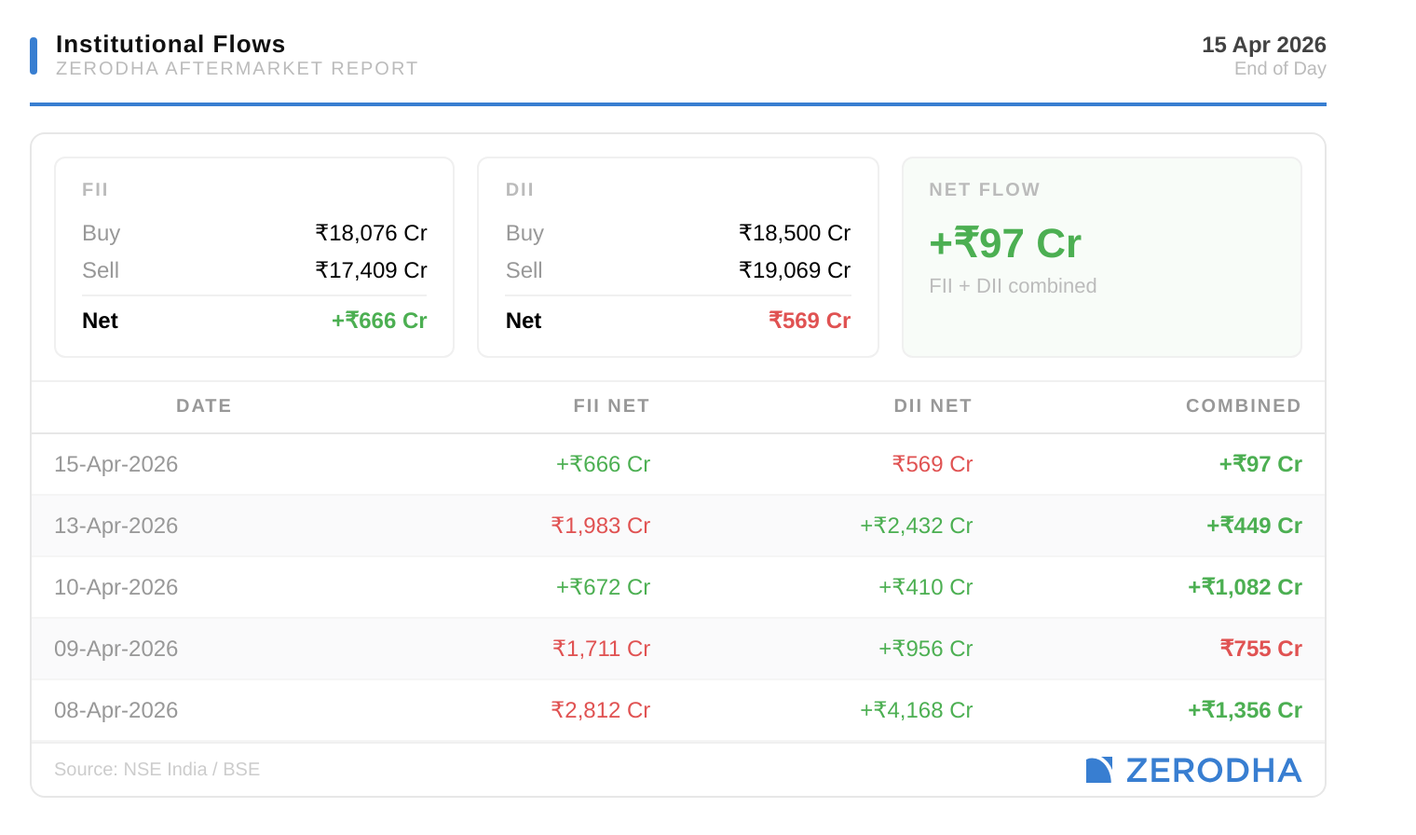
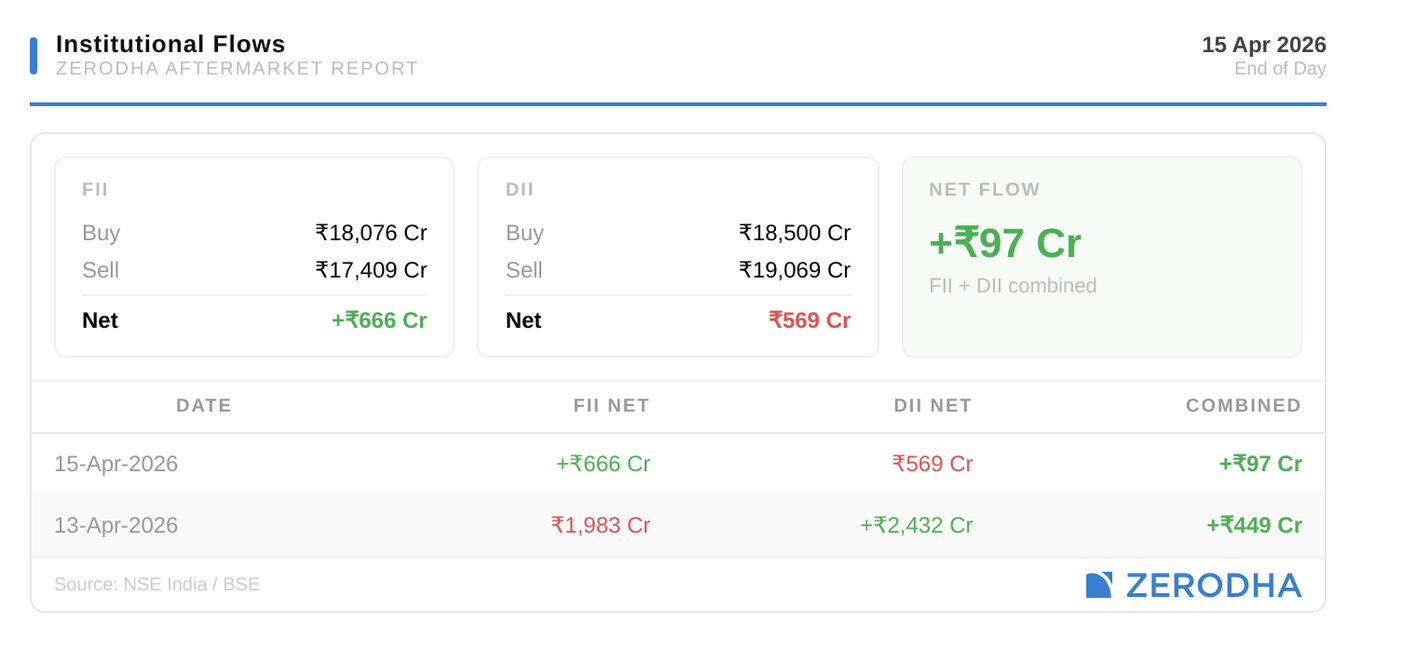
Newsletter: 2026-04-15

diff --git a/index.html b/index.html
@@ -129,7 +129,7 @@
     </div>
 
     <!-- Headline -->
-    <h1 class="nl-headline">Breadth explosion masks thin data — FIIs return as DIIs step back</h1>
+    <h1 class="nl-headline">FIIs return as net buyers; breadth stays commanding with 9:1 advance-decline ratio</h1>
 
     <div class="nl-divider"></div>
 
@@ -137,7 +137,7 @@
     
   <div class="nl-section">
     <h2 class="nl-section-title">Market Overview</h2>
-    <div class="nl-body"><p>Advance-decline ratio hit a stunning 9.4:1 with 7,782 stocks advancing against just 827 declining. The rare breadth surge suggests conviction across the board, though headline index data is unavailable today. FIIs flipped to net buyers with ₹666.15 Cr inflows after two consecutive days of selling, signaling renewed appetite for Indian equities.</p></div>
+    <div class="nl-body"><p>FIIs flipped to net buyers today with ₹666.15 Cr inflow, a sharp reversal from Monday's ₹1,983.18 Cr outflow. Domestic investors stepped back, posting a net sell of ₹568.98 Cr. The breadth story remains stellar: 7,782 advances against just 827 declines, signaling broad market participation even as index-level data remains unavailable.</p></div>
     <div style="border:1px solid #E7E7E7;border-radius:8px;overflow:hidden;">
     <table style="width:100%;border-collapse:collapse;">
       <thead><tr>
@@ -191,7 +191,7 @@
     
   <div class="nl-section">
     <h2 class="nl-section-title">Broader Market</h2>
-    <div class="nl-body"><p>This is the kind of day that matters for retail investors — when the entire market rises together, not just the top 50. The sheer volume of advances (7,782 stocks) tells you the rally wasn't concentrated in a handful of mega-caps. DIIs turned modest sellers at ₹568.98 Cr net outflow, likely book-taking after recent support.</p></div>
+    <div class="nl-body"><p>The 9:1 advance-decline ratio underscores resilience across the board. With nearly 8,642 stocks in play and momentum decisively to the upside, the market is showing the kind of internal strength that matters more than any single index print. DIIs pulling back after two days of heavy buying suggests they may be taking profit, leaving FII demand to anchor the session.</p></div>
     <div style="border:1px solid #E7E7E7;border-radius:8px;overflow:hidden;">
     <table style="width:100%;border-collapse:collapse;">
       <thead><tr>
@@ -332,21 +332,21 @@
       </tr>
         <tr style="background:#FFFFFF;">
           <td style="padding:9px 10px;font-size:12px;color:#111;font-weight:600;">🇺🇸&nbsp; S&P 500</td>
-          <td style="padding:9px 10px;font-size:12px;color:#111;font-weight:700;text-align:right;font-variant-numeric:tabular-nums;">—</td>
-          <td style="padding:9px 10px;font-size:12px;color:#666;text-align:right;font-variant-numeric:tabular-nums;">—</td>
-          <td style="padding:9px 10px;font-size:12px;color:#666;font-weight:700;text-align:right;font-variant-numeric:tabular-nums;">—</td>
+          <td style="padding:9px 10px;font-size:12px;color:#111;font-weight:700;text-align:right;font-variant-numeric:tabular-nums;">6,996.00</td>
+          <td style="padding:9px 10px;font-size:12px;color:#1B8A5A;text-align:right;font-variant-numeric:tabular-nums;">+28.62</td>
+          <td style="padding:9px 10px;font-size:12px;color:#1B8A5A;font-weight:700;text-align:right;font-variant-numeric:tabular-nums;">+0.41%</td>
         </tr>
         <tr style="background:#FAFAFA;">
-          <td style="padding:9px 10px;font-size:12px;color:#111;font-weight:600;">🇺🇸&nbsp; Nasdaq</td>
-          <td style="padding:9px 10px;font-size:12px;color:#111;font-weight:700;text-align:right;font-variant-numeric:tabular-nums;">—</td>
-          <td style="padding:9px 10px;font-size:12px;color:#666;text-align:right;font-variant-numeric:tabular-nums;">—</td>
-          <td style="padding:9px 10px;font-size:12px;color:#666;font-weight:700;text-align:right;font-variant-numeric:tabular-nums;">—</td>
+          <td style="padding:9px 10px;font-size:12px;color:#111;font-weight:600;">🇺🇸&nbsp; Nasdaq 100</td>
+          <td style="padding:9px 10px;font-size:12px;color:#111;font-weight:700;text-align:right;font-variant-numeric:tabular-nums;">23,853.27</td>
+          <td style="padding:9px 10px;font-size:12px;color:#1B8A5A;text-align:right;font-variant-numeric:tabular-nums;">+214.19</td>
+          <td style="padding:9px 10px;font-size:12px;color:#1B8A5A;font-weight:700;text-align:right;font-variant-numeric:tabular-nums;">+0.91%</td>
         </tr>
         <tr style="background:#FFFFFF;">
           <td style="padding:9px 10px;font-size:12px;color:#111;font-weight:600;">🇺🇸&nbsp; Dow Jones</td>
-          <td style="padding:9px 10px;font-size:12px;color:#111;font-weight:700;text-align:right;font-variant-numeric:tabular-nums;">—</td>
-          <td style="padding:9px 10px;font-size:12px;color:#666;text-align:right;font-variant-numeric:tabular-nums;">—</td>
-          <td style="padding:9px 10px;font-size:12px;color:#666;font-weight:700;text-align:right;font-variant-numeric:tabular-nums;">—</td>
+          <td style="padding:9px 10px;font-size:12px;color:#111;font-weight:700;text-align:right;font-variant-numeric:tabular-nums;">48,371.40</td>
+          <td style="padding:9px 10px;font-size:12px;color:#E05252;text-align:right;font-variant-numeric:tabular-nums;">-164.59</td>
+          <td style="padding:9px 10px;font-size:12px;color:#E05252;font-weight:700;text-align:right;font-variant-numeric:tabular-nums;">-0.34%</td>
         </tr>
       <tr>
         <td colspan="4" style="padding:6px 10px;font-size:10px;font-weight:700;color:#888;letter-spacing:0.8px;text-transform:uppercase;background:#F8F8F8;border-top:1px solid #E7E7E7;">
@@ -354,16 +354,16 @@
         </td>
       </tr>
         <tr style="background:#FFFFFF;">
-          <td style="padding:9px 10px;font-size:12px;color:#111;font-weight:600;">🇬🇧&nbsp; FTSE 100</td>
-          <td style="padding:9px 10px;font-size:12px;color:#111;font-weight:700;text-align:right;font-variant-numeric:tabular-nums;">—</td>
-          <td style="padding:9px 10px;font-size:12px;color:#666;text-align:right;font-variant-numeric:tabular-nums;">—</td>
-          <td style="padding:9px 10px;font-size:12px;color:#666;font-weight:700;text-align:right;font-variant-numeric:tabular-nums;">—</td>
+          <td style="padding:9px 10px;font-size:12px;color:#111;font-weight:600;">🇩🇪&nbsp; DAX</td>
+          <td style="padding:9px 10px;font-size:12px;color:#111;font-weight:700;text-align:right;font-variant-numeric:tabular-nums;">24,087.42</td>
+          <td style="padding:9px 10px;font-size:12px;color:#1B8A5A;text-align:right;font-variant-numeric:tabular-nums;">+43.20</td>
+          <td style="padding:9px 10px;font-size:12px;color:#1B8A5A;font-weight:700;text-align:right;font-variant-numeric:tabular-nums;">+0.18%</td>
         </tr>
         <tr style="background:#FAFAFA;">
-          <td style="padding:9px 10px;font-size:12px;color:#111;font-weight:600;">🇩🇪&nbsp; DAX</td>
-          <td style="padding:9px 10px;font-size:12px;color:#111;font-weight:700;text-align:right;font-variant-numeric:tabular-nums;">—</td>
-          <td style="padding:9px 10px;font-size:12px;color:#666;text-align:right;font-variant-numeric:tabular-nums;">—</td>
-          <td style="padding:9px 10px;font-size:12px;color:#666;font-weight:700;text-align:right;font-variant-numeric:tabular-nums;">—</td>
+          <td style="padding:9px 10px;font-size:12px;color:#111;font-weight:600;">🇫🇷&nbsp; CAC 40</td>
+          <td style="padding:9px 10px;font-size:12px;color:#111;font-weight:700;text-align:right;font-variant-numeric:tabular-nums;">8,274.57</td>
+          <td style="padding:9px 10px;font-size:12px;color:#E05252;text-align:right;font-variant-numeric:tabular-nums;">-53.29</td>
+          <td style="padding:9px 10px;font-size:12px;color:#E05252;font-weight:700;text-align:right;font-variant-numeric:tabular-nums;">-0.64%</td>
         </tr>
       <tr>
         <td colspan="4" style="padding:6px 10px;font-size:10px;font-weight:700;color:#888;letter-spacing:0.8px;text-transform:uppercase;background:#F8F8F8;border-top:1px solid #E7E7E7;">
@@ -372,21 +372,21 @@
       </tr>
         <tr style="background:#FFFFFF;">
           <td style="padding:9px 10px;font-size:12px;color:#111;font-weight:600;">🇯🇵&nbsp; Nikkei 225</td>
-          <td style="padding:9px 10px;font-size:12px;color:#111;font-weight:700;text-align:right;font-variant-numeric:tabular-nums;">—</td>
-          <td style="padding:9px 10px;font-size:12px;color:#666;text-align:right;font-variant-numeric:tabular-nums;">—</td>
-          <td style="padding:9px 10px;font-size:12px;color:#666;font-weight:700;text-align:right;font-variant-numeric:tabular-nums;">—</td>
+          <td style="padding:9px 10px;font-size:12px;color:#111;font-weight:700;text-align:right;font-variant-numeric:tabular-nums;">58,134.24</td>
+          <td style="padding:9px 10px;font-size:12px;color:#1B8A5A;text-align:right;font-variant-numeric:tabular-nums;">+256.85</td>
+          <td style="padding:9px 10px;font-size:12px;color:#1B8A5A;font-weight:700;text-align:right;font-variant-numeric:tabular-nums;">+0.44%</td>
         </tr>
         <tr style="background:#FAFAFA;">
           <td style="padding:9px 10px;font-size:12px;color:#111;font-weight:600;">🇭🇰&nbsp; Hang Seng</td>
-          <td style="padding:9px 10px;font-size:12px;color:#111;font-weight:700;text-align:right;font-variant-numeric:tabular-nums;">—</td>
-          <td style="padding:9px 10px;font-size:12px;color:#666;text-align:right;font-variant-numeric:tabular-nums;">—</td>
-          <td style="padding:9px 10px;font-size:12px;color:#666;font-weight:700;text-align:right;font-variant-numeric:tabular-nums;">—</td>
+          <td style="padding:9px 10px;font-size:12px;color:#111;font-weight:700;text-align:right;font-variant-numeric:tabular-nums;">25,947.32</td>
+          <td style="padding:9px 10px;font-size:12px;color:#1B8A5A;text-align:right;font-variant-numeric:tabular-nums;">+75.00</td>
+          <td style="padding:9px 10px;font-size:12px;color:#1B8A5A;font-weight:700;text-align:right;font-variant-numeric:tabular-nums;">+0.29%</td>
         </tr>
         <tr style="background:#FFFFFF;">
-          <td style="padding:9px 10px;font-size:12px;color:#111;font-weight:600;">🇨🇳&nbsp; Shanghai</td>
-          <td style="padding:9px 10px;font-size:12px;color:#111;font-weight:700;text-align:right;font-variant-numeric:tabular-nums;">—</td>
-          <td style="padding:9px 10px;font-size:12px;color:#666;text-align:right;font-variant-numeric:tabular-nums;">—</td>
-          <td style="padding:9px 10px;font-size:12px;color:#666;font-weight:700;text-align:right;font-variant-numeric:tabular-nums;">—</td>
+          <td style="padding:9px 10px;font-size:12px;color:#111;font-weight:600;">🇸🇬&nbsp; SGX STI</td>
+          <td style="padding:9px 10px;font-size:12px;color:#111;font-weight:700;text-align:right;font-variant-numeric:tabular-nums;">5,021.20</td>
+          <td style="padding:9px 10px;font-size:12px;color:#1B8A5A;text-align:right;font-variant-numeric:tabular-nums;">+13.63</td>
+          <td style="padding:9px 10px;font-size:12px;color:#1B8A5A;font-weight:700;text-align:right;font-variant-numeric:tabular-nums;">+0.27%</td>
         </tr></tbody>
     </table>
     <div style="padding:7px 12px;font-size:10px;color:#CCCCCC;border-top:1px solid #F0F0F0;display:flex;align-items:center;justify-content:space-between;">
@@ -414,7 +414,7 @@
     
   <div class="nl-section">
     <h2 class="nl-section-title">Commodity Futures</h2>
-    <div class="nl-body"><p>China released a batch of monetary data yesterday: M1 growth at 5.93% YoY, M2 at 8.95%, and goods exports at a brisk 39.61% YoY. Stimulus signals from Beijing can have spillover effects on emerging market sentiment. If China's credit cycle is stabilizing, risk-on trades like India tend to benefit.</p></div>
+    <div class="nl-body"><p>China released monetary data yesterday showing currency in circulation up 14.07% YoY, while goods exports surged 39.61% YoY. These figures suggest Beijing's economy is firing on multiple cylinders, which typically supports commodity demand and emerging market flows. That tailwind may be fueling the FII return today, though watch for any China-specific volatility spilling into Asian markets.</p></div>
     <div style="border:1px solid #E7E7E7;border-radius:8px;overflow:hidden;">
     <table style="width:100%;border-collapse:collapse;">
       <thead><tr>
@@ -509,7 +509,7 @@
     
   <div class="nl-section">
     <h2 class="nl-section-title">Institutional Flows</h2>
-    <div class="nl-body"><p>FII sentiment reversed sharply after yesterday's ₹1,983.20 Cr outflow. They bought ₹18,075.63 Cr worth of Indian stocks against ₹17,409.48 Cr in sales — a clean pivot that suggests foreign flows have stabilized. Domestic institutions are now the cautious ones, which is typical when valuations have run hard.</p></div>
+    <div class="nl-body"><p>Corporate actions loom large tomorrow (ex-date April 17): MUTHOOTFIN's ₹30 interim dividend, AUROPHARMA's buyback, PASHUPATI's 10:1 stock split, and BLUEBLENDS' capital reduction will all come into play. Investors holding these names should mark the dates. The breadth-driven rally hints that smaller and mid-tier names are catching bids alongside the blue chips.</p></div>
     <div style="border:1px solid #E7E7E7;border-radius:8px;overflow:hidden;">
     <div style="padding:12px;display:flex;gap:12px;">
       
@@ -554,21 +554,6 @@
       <td style="padding:9px 12px;font-size:13px;color:#333;border-bottom:1px solid #F5F5F5;background:#FAFAFB;text-align:right;color:#E05252;font-size:12px;">₹1,983 Cr</td>
       <td style="padding:9px 12px;font-size:13px;color:#333;border-bottom:1px solid #F5F5F5;background:#FAFAFB;text-align:right;color:#4CAF52;font-size:12px;">+₹2,432 Cr</td>
       <td style="padding:9px 12px;font-size:13px;color:#333;border-bottom:1px solid #F5F5F5;background:#FAFAFB;text-align:right;color:#4CAF52;font-size:12px;font-weight:600;">+₹449 Cr</td>
-    </tr><tr>
-      <td style="padding:9px 12px;font-size:13px;color:#333;border-bottom:1px solid #F5F5F5;font-size:12px;color:#989898;">10-Apr-2026</td>
-      <td style="padding:9px 12px;font-size:13px;color:#333;border-bottom:1px solid #F5F5F5;text-align:right;color:#4CAF52;font-size:12px;">+₹672 Cr</td>
-      <td style="padding:9px 12px;font-size:13px;color:#333;border-bottom:1px solid #F5F5F5;text-align:right;color:#4CAF52;font-size:12px;">+₹410 Cr</td>
-      <td style="padding:9px 12px;font-size:13px;color:#333;border-bottom:1px solid #F5F5F5;text-align:right;color:#4CAF52;font-size:12px;font-weight:600;">+₹1,082 Cr</td>
-    </tr><tr>
-      <td style="padding:9px 12px;font-size:13px;color:#333;border-bottom:1px solid #F5F5F5;background:#FAFAFB;font-size:12px;color:#989898;">09-Apr-2026</td>
-      <td style="padding:9px 12px;font-size:13px;color:#333;border-bottom:1px solid #F5F5F5;background:#FAFAFB;text-align:right;color:#E05252;font-size:12px;">₹1,711 Cr</td>
-      <td style="padding:9px 12px;font-size:13px;color:#333;border-bottom:1px solid #F5F5F5;background:#FAFAFB;text-align:right;color:#4CAF52;font-size:12px;">+₹956 Cr</td>
-      <td style="padding:9px 12px;font-size:13px;color:#333;border-bottom:1px solid #F5F5F5;background:#FAFAFB;text-align:right;color:#E05252;font-size:12px;font-weight:600;">₹755 Cr</td>
-    </tr><tr>
-      <td style="padding:9px 12px;font-size:13px;color:#333;border-bottom:1px solid #F5F5F5;font-size:12px;color:#989898;">08-Apr-2026</td>
-      <td style="padding:9px 12px;font-size:13px;color:#333;border-bottom:1px solid #F5F5F5;text-align:right;color:#E05252;font-size:12px;">₹2,812 Cr</td>
-      <td style="padding:9px 12px;font-size:13px;color:#333;border-bottom:1px solid #F5F5F5;text-align:right;color:#4CAF52;font-size:12px;">+₹4,168 Cr</td>
-      <td style="padding:9px 12px;font-size:13px;color:#333;border-bottom:1px solid #F5F5F5;text-align:right;color:#4CAF52;font-size:12px;font-weight:600;">+₹1,356 Cr</td>
     </tr></tbody>
       </table>
     </div>
@@ -594,7 +579,7 @@
     
   <div class="nl-section">
     <h2 class="nl-section-title">Change in OI for the day</h2>
-    <div class="nl-body"><p>No VIX, options, or technical data available today. You're flying on breadth signals and flow data alone — which, frankly, is more honest than relying on support levels when the entire market is moving in one direction.</p></div>
+    <div class="nl-body"><p>Technical and options data unavailable for today's session.</p></div>
     <div style="border:1px solid #E7E7E7;border-radius:8px;overflow:hidden;">
     <table style="width:100%;border-collapse:collapse;">
       <thead><tr>
@@ -895,7 +880,7 @@
     
   <div class="nl-section">
     <h2 class="nl-section-title">What's Coming Up</h2>
-    <div class="nl-body"><p>Four corporate actions ex-date tomorrow (17-Apr): PASHUPATI's 10:1 stock split, MUTHOOTFIN's ₹30 interim dividend, AUROPHARMA buyback, and BLUEBLENDS capital reduction. MUTHOOTFIN will likely see ex-date cuts; watch the others for post-action trading patterns.</p></div>
+    <div class="nl-body"><p>Monitor ex-dates tomorrow for MUTHOOTFIN, AUROPHARMA, PASHUPATI, and BLUEBLENDS. Watch FII flows closely over the next couple of sessions — today's ₹666.15 Cr buy needs to hold momentum to confirm a trend reversal after Monday's selloff. DIIs' next move will also matter; if they return as buyers, we could see a sustained rally.</p></div>
     
   <div style="margin-top:16px;border:1px solid #E7E7E7;border-radius:8px;overflow:hidden;">
     <table style="width:100%;border-collapse:collapse;">
@@ -1160,7 +1145,7 @@
     
   <div class="nl-section">
     <h2 class="nl-section-title">Key Levels to Watch Tomorrow</h2>
-    <div class="nl-body"><p>A day when breadth screams louder than any single number. The FII reversal is the real story — it pulls back the curtain on whether recent selling was capitulation or just profit-taking. Tomorrow's open will tell you if this momentum sticks.</p></div>
+    <div class="nl-body"><p>The market's breadth is doing the heavy lifting while indices sit quiet. FIIs are back in the room, but DIIs have turned sellers — classic conditions for a healthy but selective rally. Stay sharp on earnings, event dates, and flows.</p></div>
   </div>
 
     <!-- Footer -->
@@ -1194,7 +1179,7 @@
 
   <script>
     // Substack-ready HTML (images hosted on GitHub Pages)
-    const SUBSTACK_HTML = "<p><em>Zerodha Aftermarket Report — Wednesday, 15 April 2026</em></p><h1>Breadth explosion masks thin data — FIIs return as DIIs step back</h1><hr><h2>Market Overview</h2><p>Advance-decline ratio hit a stunning 9.4:1 with 7,782 stocks advancing against just 827 declining. The rare breadth surge suggests conviction across the board, though headline index data is unavailable today. FIIs flipped to net buyers with ₹666.15 Cr inflows after two consecutive days of selling, signaling renewed appetite for Indian equities.</p><p><img src=\"https://krishna-lohia.github.io/aftermarket-report/images/2026-04-15/section-01-market.png\" style=\"max-width:680px;width:100%;display:block;\"></p><hr><h2>Sectoral Indices</h2><p><img src=\"https://krishna-lohia.github.io/aftermarket-report/images/2026-04-15/section-02-sectors.png\" style=\"max-width:680px;width:100%;display:block;\"></p><hr><h2>Top Gainers &amp; Losers</h2><p>This is the kind of day that matters for retail investors — when the entire market rises together, not just the top 50. The sheer volume of advances (7,782 stocks) tells you the rally wasn't concentrated in a handful of mega-caps. DIIs turned modest sellers at ₹568.98 Cr net outflow, likely book-taking after recent support.</p><p><img src=\"https://krishna-lohia.github.io/aftermarket-report/images/2026-04-15/section-03-gainers.png\" style=\"max-width:680px;width:100%;display:block;\"></p><hr><h2>Global Indices</h2><p><img src=\"https://krishna-lohia.github.io/aftermarket-report/images/2026-04-15/section-01b-global.png\" style=\"max-width:680px;width:100%;display:block;\"></p><hr><h2>Commodity Futures</h2><p>China released a batch of monetary data yesterday: M1 growth at 5.93% YoY, M2 at 8.95%, and goods exports at a brisk 39.61% YoY. Stimulus signals from Beijing can have spillover effects on emerging market sentiment. If China's credit cycle is stabilizing, risk-on trades like India tend to benefit.</p><p><img src=\"https://krishna-lohia.github.io/aftermarket-report/images/2026-04-15/section-04-commodities.png\" style=\"max-width:680px;width:100%;display:block;\"></p><hr><h2>Bond Yields & Currency</h2><p><img src=\"https://krishna-lohia.github.io/aftermarket-report/images/2026-04-15/section-04b-bonds.png\" style=\"max-width:680px;width:100%;display:block;\"></p><hr><h2>Institutional Flows</h2><p>FII sentiment reversed sharply after yesterday's ₹1,983.20 Cr outflow. They bought ₹18,075.63 Cr worth of Indian stocks against ₹17,409.48 Cr in sales — a clean pivot that suggests foreign flows have stabilized. Domestic institutions are now the cautious ones, which is typical when valuations have run hard.</p><p><img src=\"https://krishna-lohia.github.io/aftermarket-report/images/2026-04-15/section-05-fii-dii.png\" style=\"max-width:680px;width:100%;display:block;\"></p><hr><h2>Change in OI</h2><p>No VIX, options, or technical data available today. You're flying on breadth signals and flow data alone — which, frankly, is more honest than relying on support levels when the entire market is moving in one direction.</p><p><img src=\"https://krishna-lohia.github.io/aftermarket-report/images/2026-04-15/section-06-oi-spurts.png\" style=\"max-width:680px;width:100%;display:block;\"></p><hr><h2>Nifty Options — OI by Strike</h2><p><img src=\"https://krishna-lohia.github.io/aftermarket-report/images/2026-04-15/section-07-oi-strikes.png\" style=\"max-width:680px;width:100%;display:block;\"></p><hr><h2>Niche Indices</h2><p><img src=\"https://krishna-lohia.github.io/aftermarket-report/images/2026-04-15/section-08-niche.png\" style=\"max-width:680px;width:100%;display:block;\"></p><hr><h2>Macro Snapshot</h2><p><img src=\"https://krishna-lohia.github.io/aftermarket-report/images/2026-04-15/section-11-macro.png\" style=\"max-width:680px;width:100%;display:block;\"></p><hr><h2>What's Coming Up</h2><p>Four corporate actions ex-date tomorrow (17-Apr): PASHUPATI's 10:1 stock split, MUTHOOTFIN's ₹30 interim dividend, AUROPHARMA buyback, and BLUEBLENDS capital reduction. MUTHOOTFIN will likely see ex-date cuts; watch the others for post-action trading patterns.</p><p><img src=\"https://krishna-lohia.github.io/aftermarket-report/images/2026-04-15/section-09-calendar.png\" style=\"max-width:680px;width:100%;display:block;\"></p><hr><h2>Corporate Actions</h2><p><img src=\"https://krishna-lohia.github.io/aftermarket-report/images/2026-04-15/section-10-corporate.png\" style=\"max-width:680px;width:100%;display:block;\"></p><hr><h2>Upcoming Results</h2><p><img src=\"https://krishna-lohia.github.io/aftermarket-report/images/2026-04-15/section-12-upcoming-results.png\" style=\"max-width:680px;width:100%;display:block;\"></p><hr><h2>Key Levels to Watch Tomorrow</h2><p>A day when breadth screams louder than any single number. The FII reversal is the real story — it pulls back the curtain on whether recent selling was capitulation or just profit-taking. Tomorrow's open will tell you if this momentum sticks.</p><hr><p><em>Published by Zerodha. Not investment advice. Data from NSE, BSE, MCX.</em></p>";
+    const SUBSTACK_HTML = "<p><em>Zerodha Aftermarket Report — Wednesday, 15 April 2026</em></p><h1>FIIs return as net buyers; breadth stays commanding with 9:1 advance-decline ratio</h1><hr><h2>Market Overview</h2><p>FIIs flipped to net buyers today with ₹666.15 Cr inflow, a sharp reversal from Monday's ₹1,983.18 Cr outflow. Domestic investors stepped back, posting a net sell of ₹568.98 Cr. The breadth story remains stellar: 7,782 advances against just 827 declines, signaling broad market participation even as index-level data remains unavailable.</p><p><img src=\"https://krishna-lohia.github.io/aftermarket-report/images/2026-04-15/section-01-market.png\" style=\"max-width:680px;width:100%;display:block;\"></p><hr><h2>Sectoral Indices</h2><p><img src=\"https://krishna-lohia.github.io/aftermarket-report/images/2026-04-15/section-02-sectors.png\" style=\"max-width:680px;width:100%;display:block;\"></p><hr><h2>Top Gainers &amp; Losers</h2><p>The 9:1 advance-decline ratio underscores resilience across the board. With nearly 8,642 stocks in play and momentum decisively to the upside, the market is showing the kind of internal strength that matters more than any single index print. DIIs pulling back after two days of heavy buying suggests they may be taking profit, leaving FII demand to anchor the session.</p><p><img src=\"https://krishna-lohia.github.io/aftermarket-report/images/2026-04-15/section-03-gainers.png\" style=\"max-width:680px;width:100%;display:block;\"></p><hr><h2>Global Indices</h2><p><img src=\"https://krishna-lohia.github.io/aftermarket-report/images/2026-04-15/section-01b-global.png\" style=\"max-width:680px;width:100%;display:block;\"></p><hr><h2>Commodity Futures</h2><p>China released monetary data yesterday showing currency in circulation up 14.07% YoY, while goods exports surged 39.61% YoY. These figures suggest Beijing's economy is firing on multiple cylinders, which typically supports commodity demand and emerging market flows. That tailwind may be fueling the FII return today, though watch for any China-specific volatility spilling into Asian markets.</p><p><img src=\"https://krishna-lohia.github.io/aftermarket-report/images/2026-04-15/section-04-commodities.png\" style=\"max-width:680px;width:100%;display:block;\"></p><hr><h2>Bond Yields & Currency</h2><p><img src=\"https://krishna-lohia.github.io/aftermarket-report/images/2026-04-15/section-04b-bonds.png\" style=\"max-width:680px;width:100%;display:block;\"></p><hr><h2>Institutional Flows</h2><p>Corporate actions loom large tomorrow (ex-date April 17): MUTHOOTFIN's ₹30 interim dividend, AUROPHARMA's buyback, PASHUPATI's 10:1 stock split, and BLUEBLENDS' capital reduction will all come into play. Investors holding these names should mark the dates. The breadth-driven rally hints that smaller and mid-tier names are catching bids alongside the blue chips.</p><p><img src=\"https://krishna-lohia.github.io/aftermarket-report/images/2026-04-15/section-05-fii-dii.png\" style=\"max-width:680px;width:100%;display:block;\"></p><hr><h2>Change in OI</h2><p>Technical and options data unavailable for today's session.</p><p><img src=\"https://krishna-lohia.github.io/aftermarket-report/images/2026-04-15/section-06-oi-spurts.png\" style=\"max-width:680px;width:100%;display:block;\"></p><hr><h2>Nifty Options — OI by Strike</h2><p><img src=\"https://krishna-lohia.github.io/aftermarket-report/images/2026-04-15/section-07-oi-strikes.png\" style=\"max-width:680px;width:100%;display:block;\"></p><hr><h2>Niche Indices</h2><p><img src=\"https://krishna-lohia.github.io/aftermarket-report/images/2026-04-15/section-08-niche.png\" style=\"max-width:680px;width:100%;display:block;\"></p><hr><h2>Macro Snapshot</h2><p><img src=\"https://krishna-lohia.github.io/aftermarket-report/images/2026-04-15/section-11-macro.png\" style=\"max-width:680px;width:100%;display:block;\"></p><hr><h2>What's Coming Up</h2><p>Monitor ex-dates tomorrow for MUTHOOTFIN, AUROPHARMA, PASHUPATI, and BLUEBLENDS. Watch FII flows closely over the next couple of sessions — today's ₹666.15 Cr buy needs to hold momentum to confirm a trend reversal after Monday's selloff. DIIs' next move will also matter; if they return as buyers, we could see a sustained rally.</p><p><img src=\"https://krishna-lohia.github.io/aftermarket-report/images/2026-04-15/section-09-calendar.png\" style=\"max-width:680px;width:100%;display:block;\"></p><hr><h2>Corporate Actions</h2><p><img src=\"https://krishna-lohia.github.io/aftermarket-report/images/2026-04-15/section-10-corporate.png\" style=\"max-width:680px;width:100%;display:block;\"></p><hr><h2>Upcoming Results</h2><p><img src=\"https://krishna-lohia.github.io/aftermarket-report/images/2026-04-15/section-12-upcoming-results.png\" style=\"max-width:680px;width:100%;display:block;\"></p><hr><h2>Key Levels to Watch Tomorrow</h2><p>The market's breadth is doing the heavy lifting while indices sit quiet. FIIs are back in the room, but DIIs have turned sellers — classic conditions for a healthy but selective rally. Stay sharp on earnings, event dates, and flows.</p><hr><p><em>Published by Zerodha. Not investment advice. Data from NSE, BSE, MCX.</em></p>";
 
     async function copyForSubstack() {
       const btn   = document.getElementById('copy-btn');
